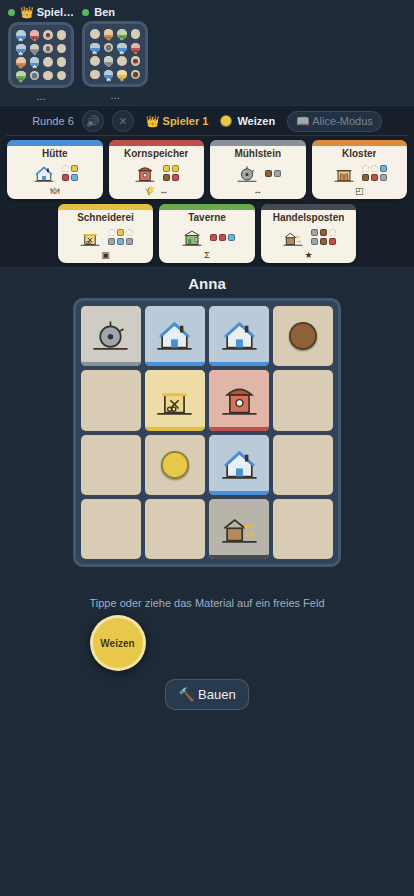
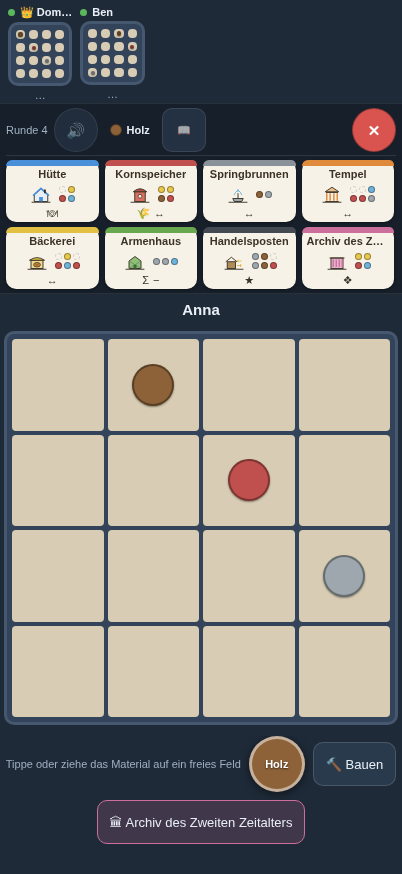
README aktualisiert, Bilder neu erzeugt, Version 3.0.0 (#88)
* README aktualisiert, Bilder neu erzeugt, Version 3.0.0

Die Screenshots im README zeigten noch das alte Design und kannten die
Landpartie nicht. Von Hand nachgeschossene Bilder veralten aber beim
nächsten Design-Schritt wieder — also gibt es jetzt ein Rezept dafür.

scripts/shots.mjs erzeugt alle sechs Bilder reproduzierbar: Viewport,
Spielerzahl, Modus und Spielstand stehen als Code. Die Spielstände werden
gesetzt statt gespielt (fester Seed, gezielt gefüllter localStorage), damit
dieselbe Auslage erscheint; im Mehrgerätemodus geht das nicht — ein Reload
würde die Sitzung zerreißen —, dort werden drei Runden wirklich gespielt.

Neu im README: die Landpartie im Einstiegsabsatz und ein eigener Block in
der Schau mit zwei Bildern (Landpartie zu zweit am Hochkant-Tablet, Solo am
Handy). Dazu der Bilder-Generator im Entwicklungsteil und der englische
Modusname im Persistenz-Absatz.

Version 3.0.0: die Landpartie ist ein zweites Spielbrett, kein Zusatz.

Claude-Session: https://claude.ai/code/session_015L2LwiSndtwc8jTztqZDKD

* Bildunterschrift an das neue Bild angepasst

Der Baumeister sagt im neuen Screenshot Holz an, nicht Weizen.

Claude-Session: https://claude.ai/code/session_015L2LwiSndtwc8jTztqZDKD

* Bildunterschrift: der Host heißt im Bild Dominik

Claude-Session: https://claude.ai/code/session_015L2LwiSndtwc8jTztqZDKD

---------

diff --git a/README.md b/README.md
@@ -4,7 +4,10 @@ Digital adaptation of the board game *Tiny Towns* (base game) as a purely client
 web app (PWA) for **tablets and phones**. The classic mode puts **2–4 players around
 one tablet in landscape**: everyone plays simultaneously at the four corners of the
 device, with the game's 7 building cards in the middle — or each player joins with
-their own device.
+their own device. Beside it stands **Countryside** (🏞), our own variant on a taller
+5×6 board with a river, mountains and a lake you cannot build on, and three extra
+waterfront cards that score next to them. Solo, daily challenge, learning mode and
+several expansions are all in the box.
 
 **▶ Play: [d0m1n1kr.github.io/tiny-towns](https://d0m1n1kr.github.io/tiny-towns/)**
 
@@ -12,9 +15,20 @@ their own device.
 
 **One tablet, four towns.** Everyone plays at the same time; each corner is
 rotated toward its player, and the round's building cards sit in the middle.
-The Master Builder (👑) has named wheat — everyone places it on their own board.
+The Master Builder (👑) has named wood — everyone places it on their own board.
 
 ![Four players around one tablet](docs/screenshots/tablet-table.png)
+
+**Countryside: a taller board with a landscape in it.** 5 wide and 6 high — the
+shape of a phone held upright. The river, the ridge and the lake are unbuildable,
+and the three waterfront cards (here Ferry Landing, Ore Mine, Watermill) only
+score next to the matching terrain. Every player gets the same map, so the towns
+stay comparable. Next to it a solo game on a phone: your own board large, the
+deck's three face-up resources below it.
+
+| Countryside for two, on a tablet held upright | Solo on a phone |
+| --- | --- |
+| <img src="docs/screenshots/countryside.png" alt="Two 5x6 boards with river, mountains and lake, ten cards in the middle" width="420"> | <img src="docs/screenshots/solo-phone.png" alt="Solo game on a phone: own board, seven cards, three face-up resources" width="200"> |
 
 **Everyone on their own device — no server.** The host opens a room; the others
 join by scanning the QR code with the normal camera app (or typing the
@@ -29,9 +43,9 @@ On a phone you get your own board big, with the opponents shown as compact
 mini boards above — and your monument stays genuinely secret, because nobody
 else's device ever receives it.
 
-**The host still sees the whole table.** Here seat 1 is played on the host
-tablet while Anna and Ben are on their phones — the state is identical on every
-device (the host runs the engine and broadcasts it).
+**The host still sees the whole table.** Here Dominik plays on the host tablet
+while Anna and Ben are on their phones — the state is identical on every device
+(the host runs the engine and broadcasts it).
 
 ![Host table with two remote players](docs/screenshots/lan-host-table.png)
 
@@ -156,7 +170,7 @@ device (the host runs the engine and broadcasts it).
   strip, the choice is remembered per device.
 - **Persistence:** autosave to `localStorage` after every action, "Continue" after reload.
   The start screen also remembers what you picked last time — player count,
-  one-device vs. own-devices, the solo variant, Landpartie, monuments and the
+  one-device vs. own-devices, the solo variant, Countryside, monuments and the
   chosen expansions — saved on start, when the choice is real. Seating is not
   remembered (it follows the player count) and neither is the challenge date
   (that one is always today). A shared challenge link is the exception in both
@@ -184,7 +198,14 @@ npm run build      # production build (dist/)
 node scripts/smoke.mjs        # E2E: single-device mode (Chromium)
 node scripts/smoke-multi.mjs  # E2E: multi-device mode in two tabs
 node scripts/smoke-learn.mjs  # E2E: learning mode (bubbles, phone + tablet)
+node scripts/shots.mjs        # regenerates the screenshots in docs/screenshots/
 ```
+
+The screenshots above are generated, not hand-made: `scripts/shots.mjs` drives a
+real Chromium through the app and writes all six files. Every shot is a recipe
+(viewport, player count, mode, game state), so after a design change the images
+are one command away from being current again — and they show the app as it
+really renders, not as it once looked.
 
 The multi-device test runs with `?transport=channel`: the same session and host code,
 but over `BroadcastChannel` between two tabs instead of real P2P — testable without
